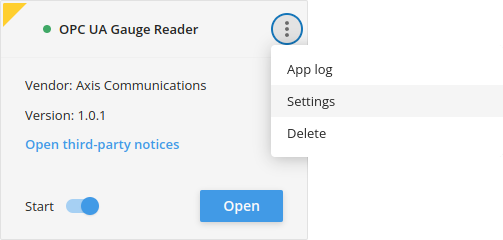
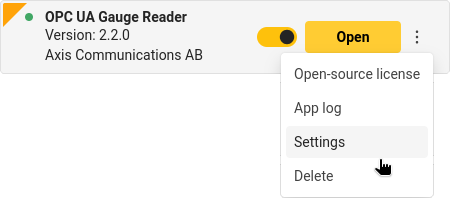
Add means to limit amount of decimals for gauge value
The new application parameter RoundToDecimals allows you to set the
amount of decimals you want for the gauge value. -1 means no limit,
0 means no decimals (effectively an integer), 1 means one decimal and
so forth.

diff --git a/html/js/opcuagaugereader.js b/html/js/opcuagaugereader.js
@@ -39,7 +39,7 @@ function getPointText(param) {
 	return `${param}: (${points[`${param}X`]}, ${points[`${param}Y`]})`;
 }
 
-function drawMarker(X, Y, color) {
+function drawMarker(X, Y, color, updateText) {
 	ctx.beginPath();
 	ctx.fillStyle = color;
 	ctx.strokeStyle = 'white';
@@ -47,27 +47,34 @@ function drawMarker(X, Y, color) {
 	ctx.fill();
 	ctx.arc(X, Y, msize, 1, 2 * Math.PI, false);
 	ctx.stroke();
-	document.getElementById("values").textContent =
-		`${getPointText('center')} ${getPointText('min')} ${getPointText('max')}`;
+
+	if (updateText) {
+	    updateTextDisplay();
+	}
 }
 
-function drawCenter() {
-	drawMarker(points['centerX'], points['centerY'], '#ff0033');
+function updateTextDisplay() {
+    document.getElementById("values").textContent =
+        `${getPointText('center')} ${getPointText('min')} ${getPointText('max')}`;
 }
 
-function drawMin() {
-	drawMarker(points['minX'], points['minY'], '#ffcc33');
+function drawCenter(updateText) {
+	drawMarker(points['centerX'], points['centerY'], '#ff0033', updateText);
 }
 
-function drawMax() {
-	drawMarker(points['maxX'], points['maxY'], '#ffcc33');
+function drawMin(updateText) {
+	drawMarker(points['minX'], points['minY'], '#ffcc33', updateText);
+}
+
+function drawMax(updateText) {
+	drawMarker(points['maxX'], points['maxY'], '#ffcc33', updateText);
 }
 
 function drawDefaultPoints() {
 	ctx.clearRect(0, 0, draw.width, draw.height);
-	drawMax();
-	drawCenter();
-	drawMin();
+	drawMax(false);
+	drawCenter(false);
+	drawMin(true);
 }
 
 function getCurrentValue(param) {
@@ -103,13 +110,13 @@ function setParam(param, value) {
 		});
 }
 
-function initWithCurrentValues() {
-	getCurrentValue('centerX');
-	getCurrentValue('centerY');
-	getCurrentValue('minX');
-	getCurrentValue('minY');
-	getCurrentValue('maxX');
-	getCurrentValue('maxY');
+async function initWithCurrentValues() {
+    points['centerX'] = await getCurrentValue('centerX');
+    points['centerY'] = await getCurrentValue('centerY');
+    points['minX'] = await getCurrentValue('minX');
+    points['minY'] = await getCurrentValue('minY');
+    points['maxX'] = await getCurrentValue('maxX');
+    points['maxY'] = await getCurrentValue('maxY');
 }
 
 function handleCoord(X, Y) {
@@ -118,21 +125,21 @@ function handleCoord(X, Y) {
 			setParam('centerX', X);
 			setParam('centerY', Y);
 			ctx.clearRect(0, 0, draw.width, draw.height);
-			drawCenter();
+			drawCenter(true);
 			curState = State.Min;
 			infoTxt.innerHTML = 'Please mark gauge minimum point';
 			break;
 		case State.Min:
 			setParam('minX', X);
 			setParam('minY', Y);
-			drawMin();
+			drawMin(true);
 			curState = State.Max;
 			infoTxt.innerHTML = 'Please mark gauge maximum point';
 			break;
 		case State.Max:
 			setParam('maxX', X);
 			setParam('maxY', Y);
-			drawMax();
+			drawMax(true);
 		default:
 			curState = State.Center;
 			infoTxt.innerHTML = 'Please mark gauge center point (starts new calibration)';
@@ -158,5 +165,8 @@ preview.width = preview.style.width = draw.width = w;
 preview.height = preview.style.height = draw.height = h;
 preview.src = `/axis-cgi/mjpg/video.cgi?resolution=${w}x${h}`;
 var ctx = draw.getContext('2d');
-initWithCurrentValues();
-handleCoord(0, 0);
+(async () => {
+    await initWithCurrentValues();
+    handleCoord(0, 0);
+    drawDefaultPoints();
+})();

diff --git a/src/opcuagaugereader.cpp b/src/opcuagaugereader.cpp
@@ -14,13 +14,13 @@
  * limitations under the License.
  */
 
-#include <utility>
-
+#include <format>
 #include <mutex>
 #include <opencv2/imgproc.hpp>
 #include <opencv2/video.hpp>
 #include <string>
 #include <syslog.h>
+#include <utility>
 
 #include "DynamicStringHandler.hpp"
 #include "Gauge.hpp"
@@ -114,7 +114,7 @@ static gboolean imageanalysis(gpointer data)
             param_handler->GetClockwise());
     }
     assert(nullptr != gauge);
-    double value = gauge->ComputeGaugeValue(gray_mat);
+    auto value = gauge->ComputeGaugeValue(gray_mat);
     mtx.unlock();
     // Successfully read values range between 0 and 100 percent; if no value
     // could be read the computation will return -1
@@ -125,11 +125,27 @@ static gboolean imageanalysis(gpointer data)
     }
     else
     {
-        LOG_I("%s/%s: Value was %f", __FILE__, __FUNCTION__, value);
+        const auto rounddecimals = param_handler->GetRoundToDecimals();
+        if (-1 < rounddecimals)
+        {
+            // Round value if limited amount of decimals is requested
+            const double factor = pow(10.0, rounddecimals);
+            value = round(value * factor) / factor;
+            LOG_I(
+                "%s/%s: Value (with %i decimals) was %s",
+                __FILE__,
+                __FUNCTION__,
+                rounddecimals,
+                std::format("{:.{}f}", value, rounddecimals).c_str());
+        }
+        else
+        {
+            LOG_I("%s/%s: Value (with unlimited decimals) was %f", __FILE__, __FUNCTION__, value);
+        }
         opcuaserver.UpdateGaugeValue(value);
         if (nullptr != dynstr_handler)
         {
-            dynstr_handler->UpdateStr(value);
+            dynstr_handler->UpdateStr(value, rounddecimals);
         }
     }
 

diff --git a/src/ParamHandler.cpp b/src/ParamHandler.cpp
@@ -27,7 +27,8 @@ ParamHandler::ParamHandler(
     void (*ReplaceGauge)(),
     void (*SetDynstrNbr)(const guint8))
     : RestartOpcuaserver_(RestartOpcuaserver), ReplaceGauge_(ReplaceGauge), SetDynstrNbr_(SetDynstrNbr),
-      axparameter_(nullptr), clockwise_(true), center_point_(0, 0), min_point_(0, 0), max_point_(0, 0)
+      axparameter_(nullptr), clockwise_(true), round_to_decimals_(-1), center_point_(0, 0), min_point_(0, 0),
+      max_point_(0, 0)
 {
     LOG_I("Init parameter handling ...");
     g_mutex_init(&mtx_);
@@ -50,7 +51,8 @@ ParamHandler::ParamHandler(
         !SetupParam("maxY", param_callback) ||
         !SetupParam("minX", param_callback) ||
         !SetupParam("minY", param_callback) ||
-        !SetupParam("port", param_callback))
+        !SetupParam("port", param_callback) ||
+        !SetupParam("RoundToDecimals", param_callback))
     // clang-format on
     {
         LOG_E("%s/%s: Failed to set up parameters", __FILE__, __FUNCTION__);
@@ -114,6 +116,13 @@ void ParamHandler::UpdateLocalParam(const gchar &name, const guint32 val)
     {
         assert(nullptr != SetDynstrNbr_);
         SetDynstrNbr_(val);
+        return;
+    }
+    else if (0 == strncmp("RoundToDecimals", &name, 15))
+    {
+        g_mutex_lock(&mtx_);
+        round_to_decimals_ = static_cast<guint8>(val);
+        g_mutex_unlock(&mtx_);
         return;
     }
 

diff --git a/src/DynamicStringHandler.cpp b/src/DynamicStringHandler.cpp
@@ -16,6 +16,7 @@
 
 #include <assert.h>
 #include <cstdlib>
+#include <format>
 #include <gio/gio.h>
 
 #include "DynamicStringHandler.hpp"
@@ -71,7 +72,7 @@ void DynamicStringHandler::SetStrNumber(const guint8 newnbr)
     LOG_I("Now using dynamic string number %u", newnbr);
 }
 
-void DynamicStringHandler::UpdateStr(const double value)
+void DynamicStringHandler::UpdateStr(const double value, const gint8 precision)
 {
     // We don't need to update too frequently
     const auto nowtime = steady_clock::now();
@@ -80,8 +81,9 @@ void DynamicStringHandler::UpdateStr(const double value)
         return;
     }
 
+    const auto value_str = -1 < precision ? std::format("{:.{}f}", value, precision) : to_string(value);
     const auto url = "http://127.0.0.12/axis-cgi/dynamicoverlay.cgi?action=settext&text_index=" + to_string(nbr_) +
-                     "&text=" + to_string(value);
+                     "&text=" + value_str;
     if (!VapixGet(url))
     {
         LOG_E("%s/%s: Failed to update dynamic string", __FILE__, __FUNCTION__);

diff --git a/include/ParamHandler.hpp b/include/ParamHandler.hpp
@@ -46,6 +46,10 @@ class ParamHandler
     {
         return max_point_;
     };
+    gint8 GetRoundToDecimals() const
+    {
+        return round_to_decimals_;
+    };
 
   private:
     gchar *GetParam(const gchar &name) const;
@@ -59,6 +63,7 @@ class ParamHandler
 
     AXParameter *axparameter_;
     gboolean clockwise_;
+    gint8 round_to_decimals_;
     cv::Point center_point_;
     cv::Point min_point_;
     cv::Point max_point_;

diff --git a/include/DynamicStringHandler.hpp b/include/DynamicStringHandler.hpp
@@ -36,7 +36,7 @@ class DynamicStringHandler
     }
     ~DynamicStringHandler();
     void SetStrNumber(const guint8 newnbr);
-    void UpdateStr(const double value);
+    void UpdateStr(const double value, const gint8 precision = -1);
 
   private:
     std::string RetrieveVapixCredentials(const char &username) const;

diff --git a/README.md b/README.md
@@ -149,6 +149,10 @@ through the application's parameter settings, found in the three vertical dots m
 
 ![Web UI Screenshot](images/web_ui_param_settings.png)
 
+In addition, the settings allow you to limit the amount of decimals for the
+output gauge value. The default value of -1 indicates no limit, 0 means no
+decimals (effectively an integer), 1 means one decimal, and so forth.
+
 ### Scripted installation and configuration
 
 Use the camera's
@@ -195,6 +199,7 @@ root.Opcuagaugereader.maxY=165
 root.Opcuagaugereader.minX=283
 root.Opcuagaugereader.minY=167
 root.Opcuagaugereader.port=4840
+root.Opcuagaugereader.RoundToDecimals=-1
 ```
 
 If you want to set the OPC UA server port to e.g. 4842: